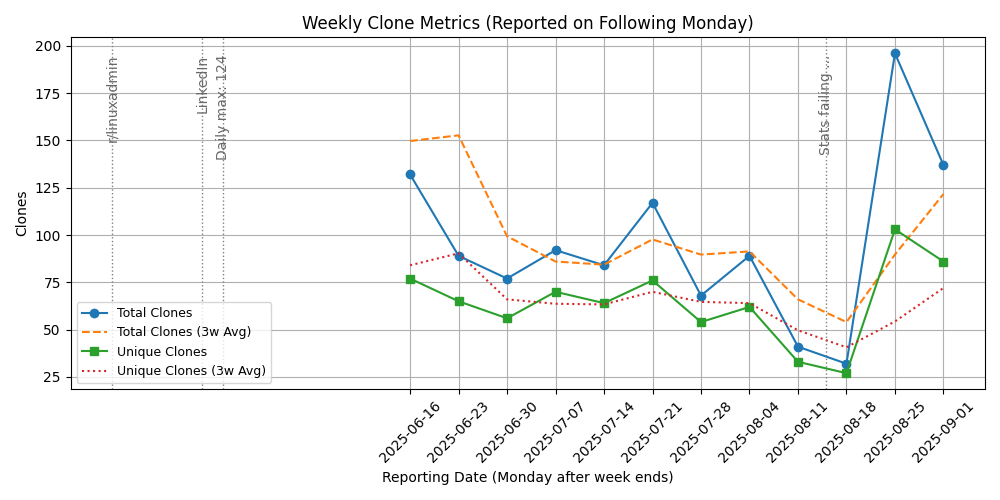
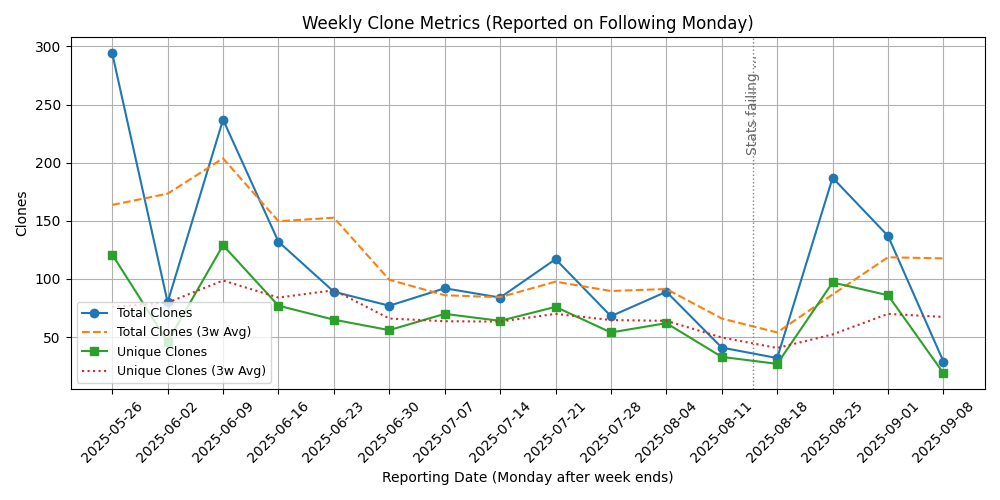
show annotations within periode only

diff --git a/v2/src/misc/generate_clone_dashboard.py b/v2/src/misc/generate_clone_dashboard.py
@@ -73,6 +73,7 @@ from datetime import datetime
 
 CLONES_FILE = "v2/doc/clones.json"
 OUTPUT_PNG =  "v2/doc/weekly_clones.png"
+NUM_WEEKS = 16  # Number of weeks to display on the chart
 
 # --- Load and validate JSON ---
 try:
@@ -144,7 +145,7 @@ weekly_data['uniques_avg'] = weekly_data['uniques'].rolling(window=3, min_period
 
 # Shift week_start to the *reporting date* (following Monday)
 weekly_data['report_date'] = weekly_data['week_start'] + pd.Timedelta(days=7)
-weekly_data = weekly_data.sort_values('report_date').tail(12)
+weekly_data = weekly_data.sort_values('report_date').tail(NUM_WEEKS)
 
 # --- Validate and parse annotations ---
 annotations = clones_data.get("annotations", [])
@@ -162,7 +163,7 @@ else:
             print(f"⚠  Annotation {i} missing 'date' or 'label' — skipping.")
             continue
         try:
-            ann_date = pd.to_datetime(ann["date"], utc=True)
+            ann_date = pd.to_datetime(ann["date"], utc=True).normalize()
             if ann_date > now:
                 print(f"⚠  Annotation {i} has future date ({ann['date']}) — skipping.")
                 continue
@@ -173,12 +174,25 @@ else:
             print(f"⚠  Annotation {i} label is not a string — skipping.")
             continue
 
-        valid_annotations.append({
-            "date": ann_date,
-            "label": ann["label"]
-        })
+        valid_annotations.append({"date": ann_date, "label": ann["label"]})
 
 annotation_df = pd.DataFrame(valid_annotations).sort_values("date")
+
+# --- Keep only annotations within the plotted time window ---
+if weekly_data.empty:
+    print("No weekly data after filtering. Skipping annotations.")
+    annotation_df = pd.DataFrame(columns=["date", "label"])
+else:
+    plot_start = weekly_data["report_date"].min().normalize()
+    plot_end   = weekly_data["report_date"].max().normalize()
+
+    if not annotation_df.empty:
+        in_window = (annotation_df["date"] >= plot_start) & (annotation_df["date"] <= plot_end)
+        dropped = int((~in_window).sum())
+        if dropped:
+            print(f"ℹ  Skipping {dropped} annotation(s) outside [{plot_start.date()} .. {plot_end.date()}].")
+        annotation_df = annotation_df.loc[in_window].reset_index(drop=True)
+
 
 # --- Plotting ---
 fig, ax = plt.subplots(figsize=(10, 5))
